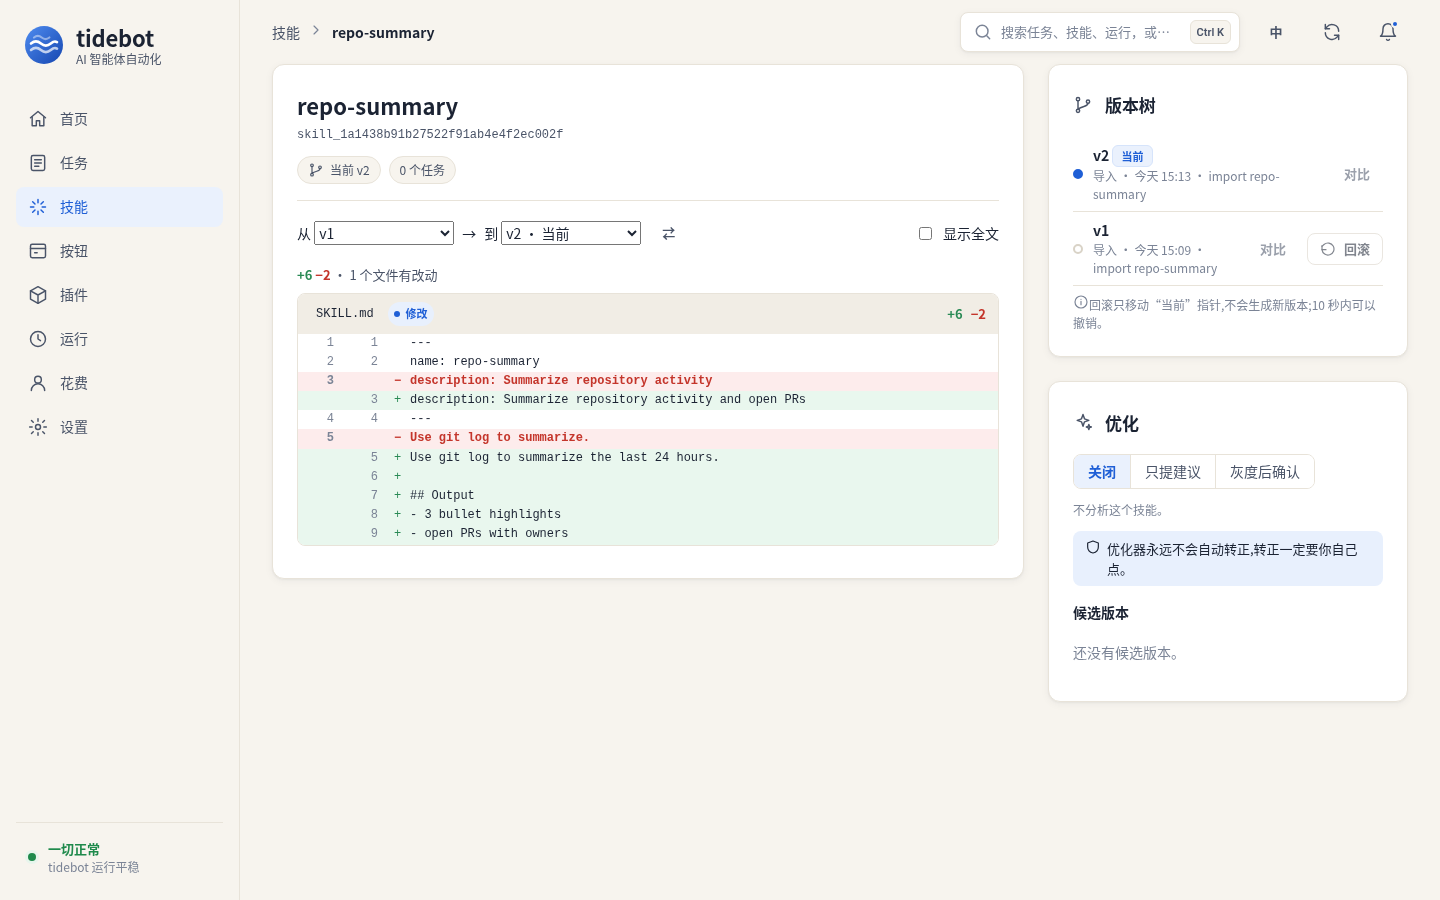
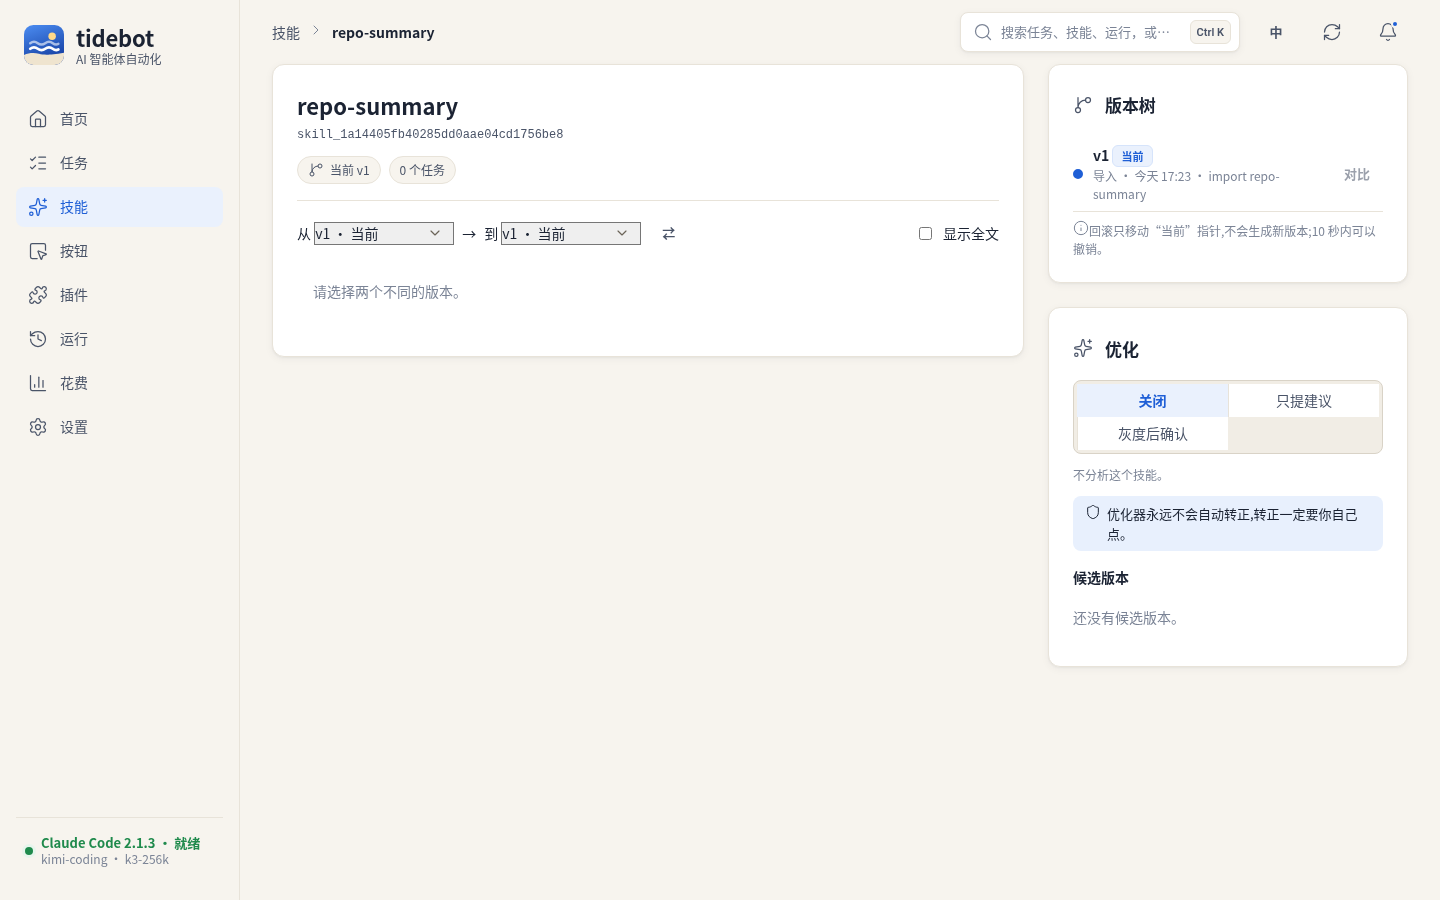
Spend: no skeleton flash; refresh README screenshots; v0.1.4 notes

diff --git a/internal/webui/static/app.js b/internal/webui/static/app.js
@@ -2221,8 +2221,10 @@
   var spendView = { range: "7d", by: "task" }, spendCache = {};
   function renderSpend() {
     spendCache = {};
-    var spendP = api("/api/spend"); // start both while the route's cache window is open
-    return api("/api/tasks").then(function (ts) { (ts.tasks || ts || []).forEach(function (t) { taskNames[t.id] = t.name; }); }, function () {}).then(function () { return spendP; }).then(function (d) {
+    var spendP = api("/api/spend"); // start all while the route's cache window is open
+    var bkKey = spendView.range + "|" + spendView.by;
+    var bkP = api("/api/spend/breakdown?range=" + spendView.range + "&by=" + spendView.by).then(function (r) { spendCache[bkKey] = r; }, function () {});
+    return api("/api/tasks").then(function (ts) { (ts.tasks || ts || []).forEach(function (t) { taskNames[t.id] = t.name; }); }, function () {}).then(function () { return bkP; }).then(function () { return spendP; }).then(function (d) {
       var s = d.summary, budgets = s.budgets || [];
       var global = budgets.filter(function (b) { return b.scope === "global" && b.period === "day"; })[0] || { max_usd: 0, max_tokens: 0 };
       var runsToday = d.top_tasks.reduce(function (a, t) { return a + t.runs; }, 0);

diff --git a/docs/release-notes/v0.1.4.md b/docs/release-notes/v0.1.4.md
@@ -1,0 +1,15 @@
+# tidebot v0.1.4
+
+## 修复 / Fixes
+- **macOS 找不到 Claude Code**：现在会通过登录 shell 和常见安装目录（nvm/fnm/asdf/mise、Homebrew、npm、bun、volta、pnpm…）查找 `claude`，并逐个用 `--version` 验证；npm 安装时会让 node 可用。状态弹窗会显示“通过什么方式找到的”，找不到时列出搜索过的路径。也可以手动填路径（桌面版带文件选择器），点“重新检测”立即生效。
+  Claude Code is now found on macOS via your login shell and common install dirs; the popover shows how it was found (or where it looked), and you can set the path manually.
+- **页面切换闪烁**：切页面、切标签不再闪骨架屏，保留滚动位置，没有布局跳动（自动化检查：27 次切换中有闪烁的从 13 次降到 0 次）。
+  No more flicker when switching pages/tabs.
+
+## 新东西 / New
+- 新的应用图标和托盘图标（macOS 用模板图标，跟随明暗模式），Windows exe 也带上了图标。
+- 设置 → 服务商重新设计：卡片列表、预设库、带分区和固定底栏的编辑抽屉。
+- 界面图标统一换成 Lucide。
+- README 截图全部重拍。
+
+Thanks to Anthropic for Claude Code — tidebot just drives it.
